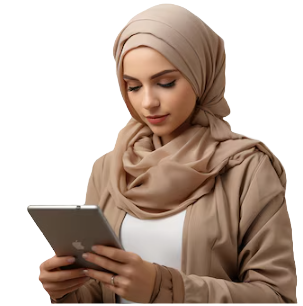
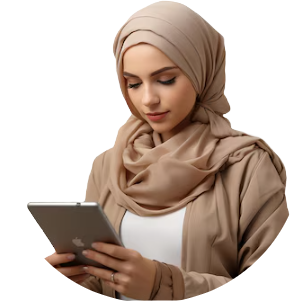
last 3 de commit

diff --git a/src/Components/Testimonials.jsx b/src/Components/Testimonials.jsx
@@ -10,6 +10,7 @@ const Testimonials = () => {
   const testimonials = useSelector((state) => state.testimonials);
   const [currentIndex, setCurrentIndex] = useState(0);
   const [isModalOpen, setIsModalOpen] = useState(false);
+  const [isEmailModalOpen, setIsEmailModalOpen] = useState(false);
   const [newTestimonial, setNewTestimonial] = useState({
     author: '',
     email: '',
@@ -17,11 +18,11 @@ const Testimonials = () => {
     date: '',
     rating: 1
   });
+  const [enteredEmail, setEnteredEmail] = useState('');
+  const [actionType, setActionType] = useState(null);
+  const [selectedTestimonialId, setSelectedTestimonialId] = useState(null);
 
-  // Exemple d'email de l'utilisateur actuel
-  const currentUserEmail = 'John.Johnny@gmail.com'; // Remplacez par la logique de votre application
-
-  // Chargement initial depuis localStorage
+  // Initial loading from localStorage
   useEffect(() => {
     const storedTestimonials = JSON.parse(localStorage.getItem('testimonials')) || [];
     if (storedTestimonials.length) {
@@ -29,7 +30,7 @@ const Testimonials = () => {
     }
   }, [dispatch]);
 
-  // Sauvegarde dans localStorage lors des changements
+  // Save to localStorage on changes
   useEffect(() => {
     localStorage.setItem('testimonials', JSON.stringify(testimonials));
     console.log('LocalStorage updated:', testimonials);
@@ -52,28 +53,37 @@ const Testimonials = () => {
   };
 
   const handleEdit = (id) => {
-    const testimonial = testimonials.find((t) => t.id === id);
-    if (testimonial.email !== currentUserEmail) {
-      alert("You can only edit your own testimonials.");
-      return;
-    }
-    const updatedMessage = prompt("Enter new message:", testimonial.message);
-    if (updatedMessage) {
-      dispatch(editTestimonial({ id, updatedData: { message: updatedMessage } }));
-    }
+    setSelectedTestimonialId(id);
+    setActionType('edit');
+    setIsEmailModalOpen(true);
   };
 
   const handleDelete = (id) => {
-    const testimonial = testimonials.find((t) => t.id === id);
-    if (testimonial.email !== currentUserEmail) {
-      alert("You can only delete your own testimonials.");
+    setSelectedTestimonialId(id);
+    setActionType('delete');
+    setIsEmailModalOpen(true);
+  };
+
+  const verifyEmail = () => {
+    const testimonial = testimonials.find((t) => t.id === selectedTestimonialId);
+    if (testimonial.email !== enteredEmail) {
+      alert("Email does not match the testimonial's email.");
+      setIsEmailModalOpen(false);
       return;
     }
-    if (window.confirm("Are you sure you want to delete this testimonial?")) {
-      dispatch(deleteTestimonial(id));
-      setCurrentIndex((prevIndex) =>
-        prevIndex === 0 ? 0 : prevIndex - 1
-      );
+    setIsEmailModalOpen(false);
+    if (actionType === 'edit') {
+      const updatedMessage = prompt("Enter new message:", testimonial.message);
+      if (updatedMessage) {
+        dispatch(editTestimonial({ id: selectedTestimonialId, updatedData: { message: updatedMessage } }));
+      }
+    } else if (actionType === 'delete') {
+      if (window.confirm("Are you sure you want to delete this testimonial?")) {
+        dispatch(deleteTestimonial(selectedTestimonialId));
+        setCurrentIndex((prevIndex) =>
+          prevIndex === 0 ? 0 : prevIndex - 1
+        );
+      }
     }
   };
 
@@ -139,13 +149,13 @@ const Testimonials = () => {
             <>
               <button
                 onClick={() => handleEdit(currentTestimonial.id)}
-                className="bg-gradient-to-br from-purple-500 to-silver-500 hover:bg-slate-200 text-white px-4 py-2 rounded-md shadow-md hover:bg-purple-600"
+                className="px-6 py-3 rounded-full bg-gradient-to-br from-purple-500 to-silver-500 hover:bg-slate-200 text-black font-bold"
               >
                 Edit
               </button>
               <button
                 onClick={() => handleDelete(currentTestimonial.id)}
-                className="bg-gradient-to-br from-purple-500 to-silver-500 hover:bg-slate-200 text-white px-4 py-2 rounded-md shadow-md hover:bg-gray-600"
+                className="px-6 py-3 rounded-full bg-gradient-to-br from-purple-500 to-silver-500 hover:bg-slate-200 text-black font-bold"
               >
                 Delete
               </button>
@@ -185,13 +195,13 @@ const Testimonials = () => {
       <div className="text-center mt-8">
         <button
           onClick={() => setIsModalOpen(true)}
-          className="bg-purple-500 text-white px-4 py-2 rounded-full shadow-md hover:bg-purple-600"
+          className="px-6 py-3 rounded-full bg-gradient-to-br from-purple-500 to-silver-500 hover:bg-slate-200 text-black font-bold"
         >
           Add Testimonial
         </button>
       </div>
 
-      {/* Modal */}
+      {/* Add Testimonial Modal */}
       {isModalOpen && (
         <div className="fixed inset-0 bg-black bg-opacity-50 flex items-center justify-center">
           <div className="bg-white p-8 rounded-lg shadow-lg w-full max-w-lg">
@@ -235,25 +245,57 @@ const Testimonials = () => {
               <label className="block text-gray-700">Rating</label>
               <input
                 type="number"
+                value={newTestimonial.rating}
+                onChange={(e) => setNewTestimonial({ ...newTestimonial, rating: parseInt(e.target.value) })}
+                className="border border-gray-300 p-2 rounded w-full"
                 min="1"
                 max="5"
-                value={newTestimonial.rating}
-                onChange={(e) => setNewTestimonial({ ...newTestimonial, rating: parseInt(e.target.value, 10) })}
-                className="border border-gray-300 p-2 rounded w-full"
               />
             </div>
             <div className="flex justify-end space-x-4">
               <button
                 onClick={handleModalClose}
-                className="bg-gray-500 text-white px-4 py-2 rounded-full shadow-md hover:bg-gray-600"
+                className="px-4 py-2 bg-gray-500 text-white rounded"
               >
                 Cancel
               </button>
               <button
                 onClick={handleAddTestimonial}
-                className="bg-purple-500 text-white px-4 py-2 rounded-full shadow-md hover:bg-purple-600"
+                className="px-4 py-2 bg-purple-500 text-white rounded"
               >
                 Add
+              </button>
+            </div>
+          </div>
+        </div>
+      )}
+
+      {/* Email Verification Modal */}
+      {isEmailModalOpen && (
+        <div className="fixed inset-0 bg-black bg-opacity-50 flex items-center justify-center">
+          <div className="bg-white p-8 rounded-lg shadow-lg w-full max-w-lg">
+            <h3 className="text-lg font-semibold mb-4">Enter your email to verify</h3>
+            <div className="mb-4">
+              <label className="block text-gray-700">Email</label>
+              <input
+                type="email"
+                value={enteredEmail}
+                onChange={(e) => setEnteredEmail(e.target.value)}
+                className="border border-gray-300 p-2 rounded w-full"
+              />
+            </div>
+            <div className="flex justify-end space-x-4">
+              <button
+                onClick={() => setIsEmailModalOpen(false)}
+                className="px-4 py-2 bg-gray-500 text-white rounded"
+              >
+                Cancel
+              </button>
+              <button
+                onClick={verifyEmail}
+                className="px-4 py-2 bg-purple-500 text-white rounded"
+              >
+                Verify
               </button>
             </div>
           </div>
@@ -264,3 +306,4 @@ const Testimonials = () => {
 };
 
 export default Testimonials;
+

diff --git a/src/Components/Projects.jsx b/src/Components/Projects.jsx
@@ -42,7 +42,7 @@ const Projects = () => {
 
   return (
     <div className="flex flex-col items-center py-10 bg-gray-100 p-5" id="projects">
-      <div className="flex flex-col items-center w-full max-w-5xl gap-6">
+      <div className="flex flex-col items-center w-full max-w-5xl gap-6 ">
         <h2 className="text-4xl font-semibold text-center mt-24 text-gray-600">Projects</h2>
         <div className="flex justify-between gap-6 flex-wrap md:flex-nowrap">
           {projects.map((project, index) => (
@@ -61,8 +61,8 @@ const Projects = () => {
                 </div>
               </div>
               <div className="flex gap-4">
-                <button onClick={() => openModal(project)} className="px-6 inline-block py-3 w-full sm:w-fit rounded-full bg-gradient-to-br from-purple-500 to-silver-500 hover:bg-slate-200 text-black">See More</button>
-                <a href={project.source} className="px-6 inline-block py-3 w-full sm:w-fit rounded-full bg-gradient-to-br from-purple-500 to-silver-500 hover:bg-slate-200 text-black" target="_blank" rel="noopener noreferrer">Source</a>
+                <button onClick={() => openModal(project)} className="px-6 py-3 rounded-full bg-gradient-to-br from-purple-500 to-silver-500 hover:bg-slate-200 text-black font-bold">See More</button>
+                <a href={project.source} className="px-6 py-3 rounded-full bg-gradient-to-br from-purple-500 to-silver-500 hover:bg-slate-200 text-black font-bold">Source</a>
               </div>
             </div>
           ))}
@@ -74,7 +74,7 @@ const Projects = () => {
           <div className="bg-white p-6 rounded-lg shadow-lg max-w-lg w-full">
             <h3 className="text-2xl font-semibold mb-3 text-gray-700">{selectedProject.title}</h3>
             <p className="text-gray-600 mb-3">{selectedProject.detailedDescription}</p>
-            <button onClick={closeModal} className="px-6 inline-block py-3 w-full sm:w-fit rounded-full bg-gradient-to-br from-purple-500 to-silver-500 hover:bg-slate-200 text-black">Close</button>
+            <button onClick={closeModal} className="px-6 py-3 rounded-full bg-gradient-to-br from-purple-500 to-silver-500 hover:bg-slate-200 text-black font-bold">Close</button>
           </div>
         </div>
       )}

diff --git a/src/Components/Hero.jsx b/src/Components/Hero.jsx
@@ -42,18 +42,18 @@ const Hero = () => {
           <div>
             <Link
               href="/#contact"
-              className="px-6 inline-block py-3 w-full sm:w-fit rounded-full mr-4 bg-gradient-to-br from-purple-500 to-silver-500 hover:bg-slate-200 text-black"
+              className="px-6 py-3 rounded-full bg-gradient-to-br from-purple-500 to-silver-500 hover:bg-slate-200 text-black font-bold"
             >
               Hire Me
             </Link>
-            <Link
+           {/* <Link
               href="/"
               className="px-1 inline-block py-1 w-full sm:w-fit rounded-full bg-gradient-to-br from-purple-500 to-silver-500 hover:bg-slate-800 text-white mt-3"
             >
               <span className="block bg-[#121212] hover:bg-slate-800 rounded-full px-5 py-2">
                 Download Resume
               </span>
-            </Link>
+            </Link>*/}
           </div>
         </motion.div>
         <motion.div
@@ -62,13 +62,13 @@ const Hero = () => {
           transition={{ duration: 0.5 }}
           className="col-span-4 place-self-center mt-4 lg:mt-0"
         >
-          <div className="rounded-full bg-[#181818] w-[250px] h-[250px] lg:w-[350px] lg:h-[350px] relative">
+          <div className="rounded-full bg-[#181818] w-[250px] h-[250px] lg:w-[250px] lg:h-[250px] relative">
             <Image
               src="/heroImage.png" 
               alt="hero image"
               className="absolute transform -translate-x-1/2 -translate-y-1/2 top-1/2 left-1/2"
-              width={200}
-              height={200}
+              width={250}
+              height={250}
             />
           </div>
         </motion.div>
